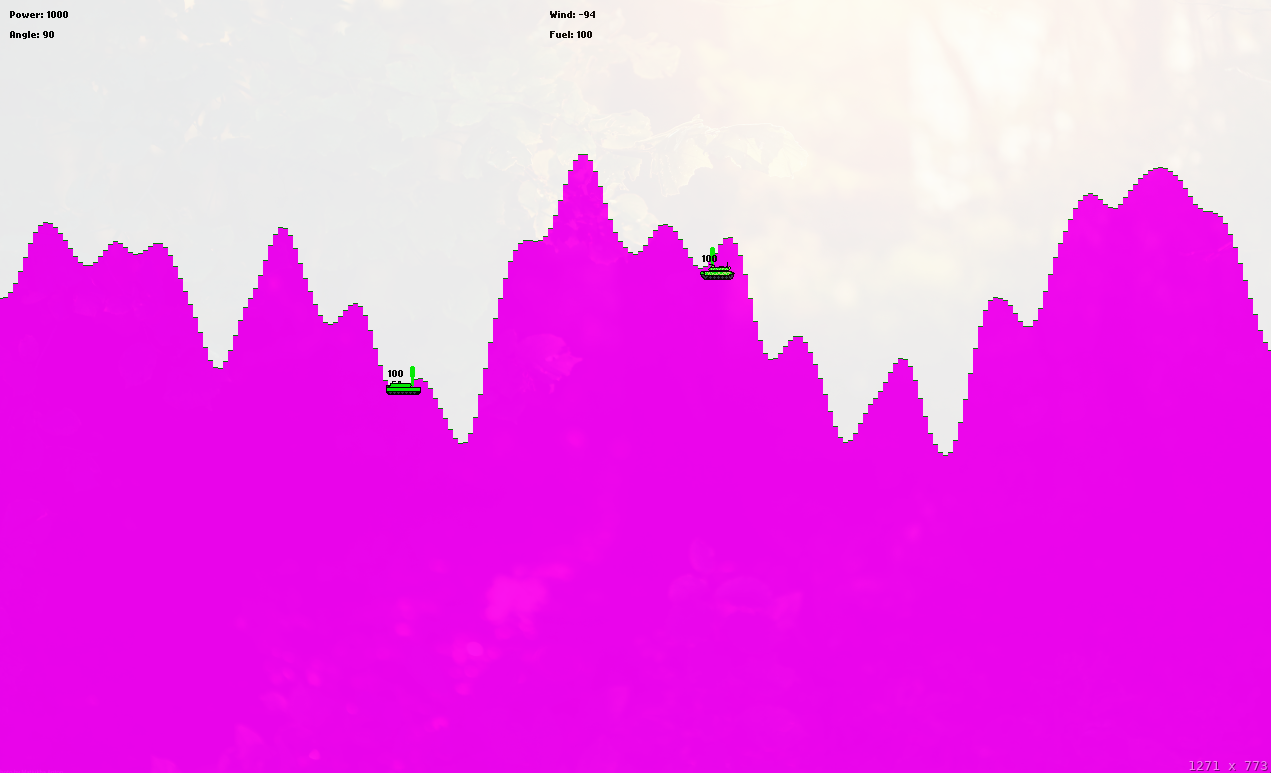
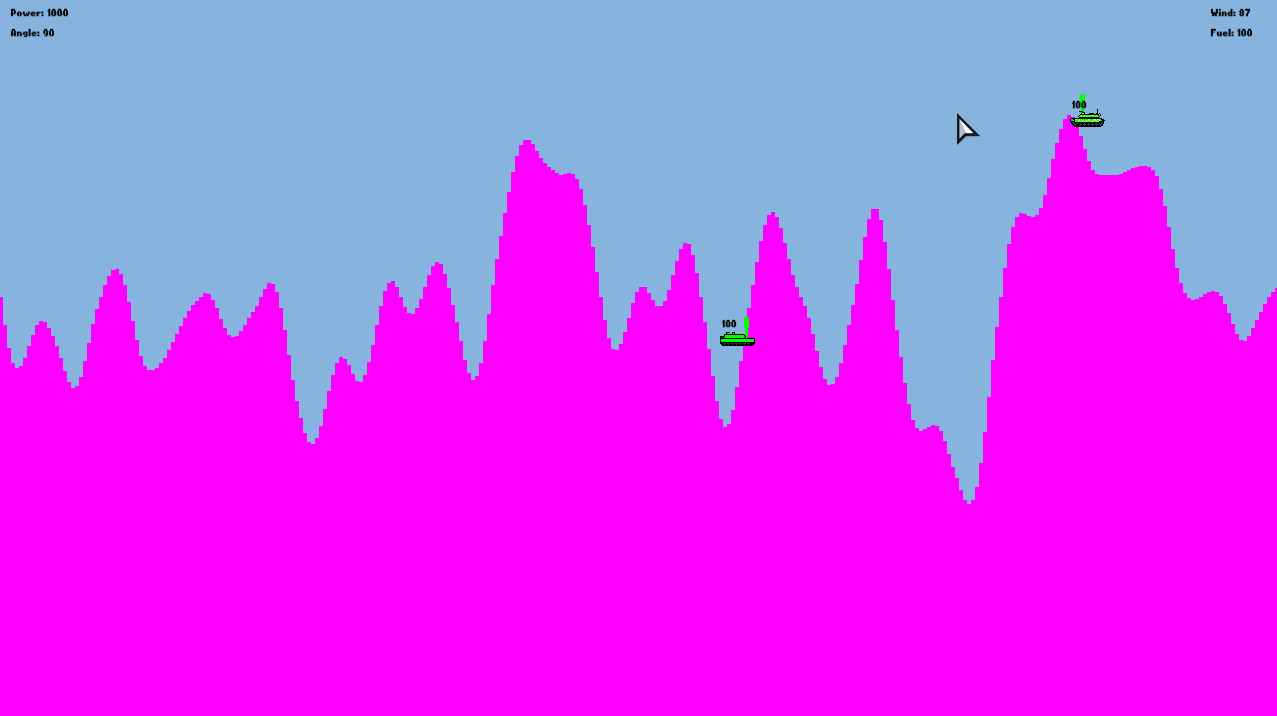
README.md updated

diff --git a/README.md b/README.md
@@ -5,4 +5,6 @@ This is a recreation of the game atomic tanks, but made with haxe-flixel
 ## How to play it
 First, you have to install [haxe](https://haxe.org/download/) and [haxe-flixel](https://haxeflixel.com/) in order to run the program.
 
-Then, open a terminal on the folder and write `lime test neko` if you want to run it on the desktop, or `lime test html5` if you want to run it on the browser.
+Then download the repo with `git clone https://github.com/javierellou/cool-tanks.git`
+
+Lastly, open a terminal on the folder and write `lime test neko` if you want to run it on the desktop, or `lime test html5` if you want to run it on the browser.
